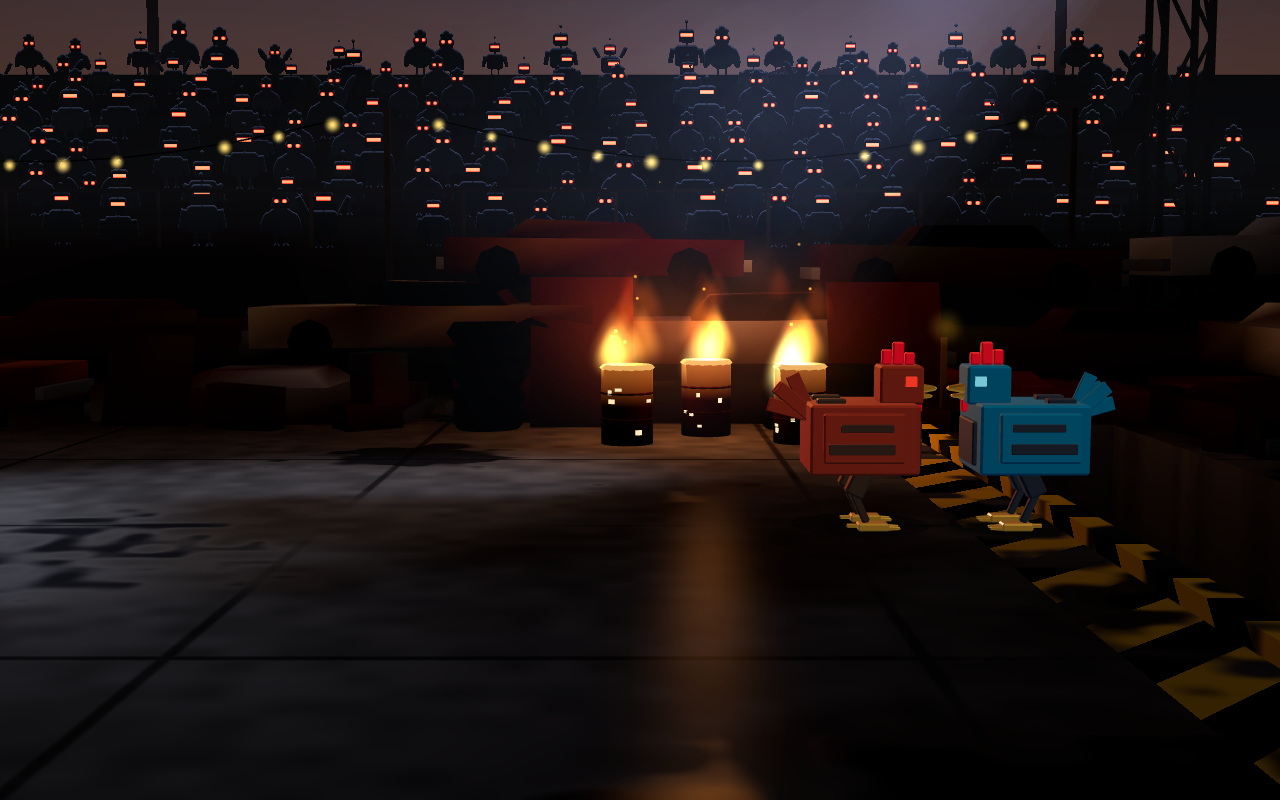
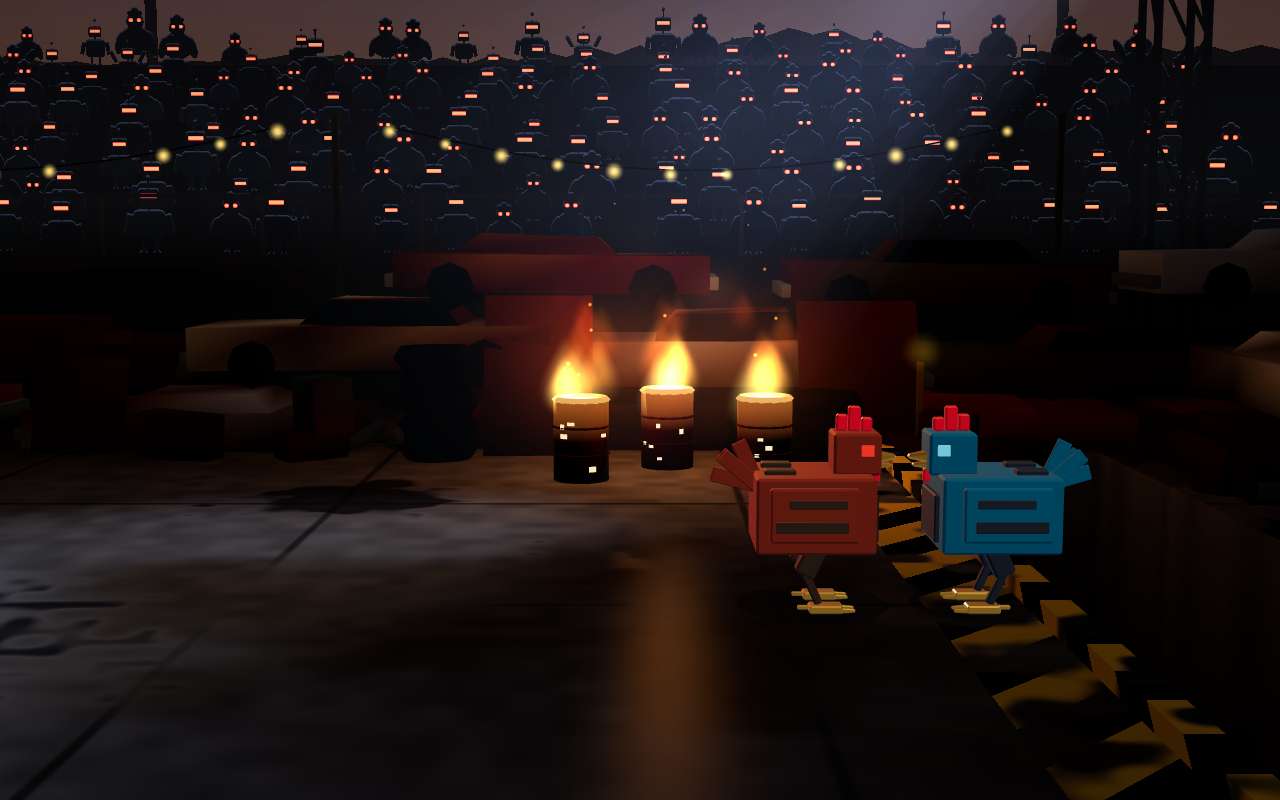
Phase 1: camera frames the fighters lower and tighter; captures re-shot with the arena

diff --git a/apps/web/src/game/view/camera/FightCamera.ts b/apps/web/src/game/view/camera/FightCamera.ts
@@ -5,11 +5,11 @@ import { noise1 } from "./noise";
 export const VFOV = 30;
 const DT = 1 / 60;
 const RING = 10;
-const MIN_W = 10;
+const MIN_W = 9;
 const MAX_W = 20;
 // A slight downward look makes the pit floor read (2.5D) without losing the side view.
 const CAM_Y = 2.3;
-const LOOK_Y = 1.05;
+const LOOK_Y = 1.5;
 
 const clamp = (v: number, a: number, b: number) => (v < a ? a : v > b ? b : v);
 const damp = (a: number, b: number, k: number, dt: number) => a + (b - a) * (1 - Math.exp(-k * dt));

diff --git a/apps/web/src/game/view/camera/FightCamera.test.ts b/apps/web/src/game/view/camera/FightCamera.test.ts
@@ -11,8 +11,8 @@ describe("FightCamera", () => {
       expect(w).toBeGreaterThanOrEqual(12);
     }
   });
-  it("clamps the framed width between 10 and 20 units", () => {
-    expect(FightCamera.wantWidth(0, 0)).toBe(10);
+  it("clamps the framed width between 9 and 20 units", () => {
+    expect(FightCamera.wantWidth(0, 0)).toBe(9);
     expect(FightCamera.wantWidth(-10, 10)).toBe(20);
   });
   it("shake is deterministic for a seed and decays to zero", () => {
